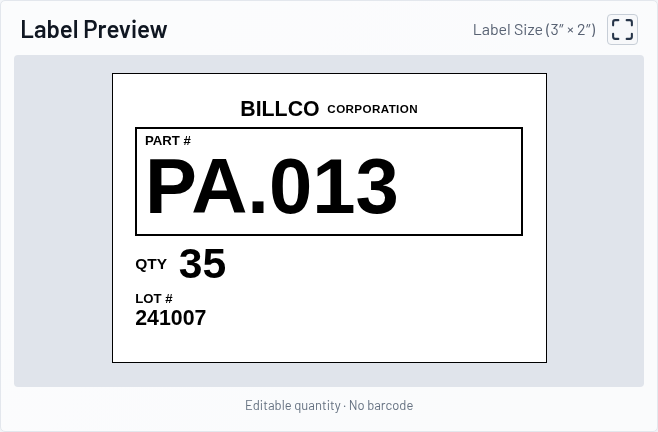
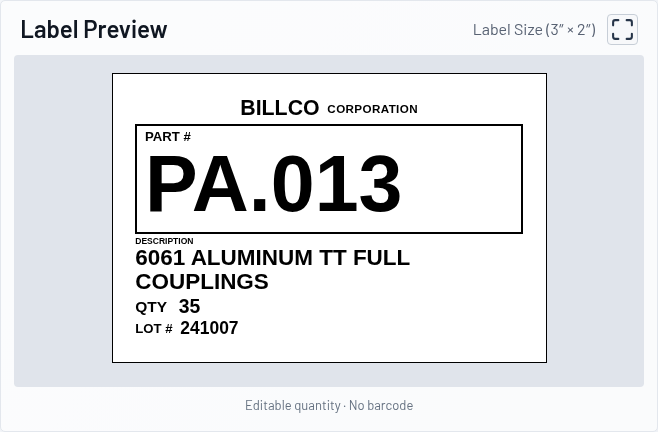
feat: add two-line descriptions to 3x2 labels

Changed region(s): [[0.1824, 0.3611, 0.7903, 0.7824], [0.2128, 0.2106, 0.7903, 0.331]]

diff --git a/tests/label-rendering.spec.ts b/tests/label-rendering.spec.ts
@@ -39,11 +39,10 @@ async function verifyThermalLabel(label: Locator, height: number, part: string, 
     expect(text.transform).toBe('none')
   }
   expect(style.part).toBeGreaterThan(await label.locator('.label-quantity strong').evaluate((node) => parseFloat(getComputedStyle(node).fontSize)))
+  await expect(label.locator('.label-description strong')).toHaveText('HEX HEAD PIPE PLUG 1/2')
   if (height === 2) {
-    await expect(label.locator('.label-description')).toHaveCount(0)
     await expect(label.locator('.label-po')).toHaveCount(0)
   } else {
-    await expect(label.locator('.label-description strong')).toHaveText('HEX HEAD PIPE PLUG 1/2')
     await expect(label.locator('.label-po strong')).toHaveText('PO-123')
   }
   if (barcode) {
@@ -85,7 +84,7 @@ for (const mode of [
   })
 }
 
-test('fits complete long imported identifiers and descriptions at desktop and mobile sizes', async ({ page, request }) => {
+test('preserves long Part Numbers and keeps label text within desktop and mobile bounds', async ({ page, request }) => {
   const part = `${randomUUID()}-ABCDEFGHIJKLMNOPQRSTUVWXYZ0`
   const description = 'LONG IMPORTED DESCRIPTION WITH DIMENSIONS AND MATERIAL '.repeat(10).slice(0, 512)
   await importProduct(request, part, description)
@@ -111,3 +110,71 @@ test('fits complete long imported identifiers and descriptions at desktop and mo
     }
   }
 })
+
+for (const mode of [
+  { name: 'Package Fixed Qty', barcode: '000123456789' },
+  { name: 'BCC', barcode: null },
+]) {
+  test(`${mode.name} wraps descriptions into two lines and truncates overflow without shrinking Part Number`, async ({ page, request }) => {
+    const part = `PA-${randomUUID().slice(0, 4)}`
+    const longPart = `PB-${randomUUID().slice(0, 4)}`
+    const description = '6061 ALUMINUM TT FULL COUPLINGS'
+    const longDescription = 'BLK EXTRA HEAVY MALLEABLE FITTINGS WITH ADDITIONAL SPECIFICATIONS '.repeat(6).trim()
+    await importProduct(request, part, description)
+    await importProduct(request, longPart, longDescription)
+    await page.goto('/')
+    await expect(page.getByLabel('Description', { exact: true })).toHaveValue('3/8 Brass Coupling')
+    await page.getByRole('radio', { name: mode.name, exact: true }).check()
+    await page.getByRole('textbox', { name: 'Part Number', exact: true }).fill(part)
+    await expect(page.getByLabel('Description', { exact: true })).toHaveValue(description)
+    if (!mode.barcode) await page.getByRole('spinbutton', { name: 'Quantity', exact: true }).fill('35')
+    const label = page.locator('.product-label').first()
+    const partSize = () => label.locator('.label-part strong').evaluate((node) => parseFloat(getComputedStyle(node).fontSize))
+    // Compare against the existing compact grid, with the description area removed.
+    const priorSize = await label.evaluate((node) => {
+      node.classList.remove('has-description')
+      const description = node.querySelector<HTMLElement>('.label-description')!
+      description.style.display = 'none'
+      return new Promise<number>((resolve) => requestAnimationFrame(() => requestAnimationFrame(() => {
+        const size = parseFloat(getComputedStyle(node.querySelector('.label-part strong')!).fontSize)
+        node.classList.add('has-description')
+        description.style.display = ''
+        resolve(size)
+      })))
+    })
+    await expect.poll(partSize).toBeGreaterThanOrEqual(priorSize)
+    for (const width of [1536, 390]) {
+      await page.setViewportSize({ width, height: 1024 })
+      const value = label.locator('.label-description strong')
+      await expect(value).toHaveText(description)
+      await expect.poll(() => value.evaluate((node) => {
+        const range = document.createRange()
+        range.selectNodeContents(node)
+        return new Set([...range.getClientRects()].map((rect) => Math.round(rect.top))).size
+      })).toBe(2)
+      if (mode.barcode) await expect(label.locator('.barcode-value')).toHaveText(mode.barcode)
+      else await expect(label.locator('.barcode-group')).toHaveCount(0)
+    }
+    await page.getByRole('textbox', { name: 'Part Number', exact: true }).fill(longPart)
+    await expect(page.getByLabel('Description', { exact: true })).toHaveValue(longDescription)
+    const value = label.locator('.label-description strong')
+    await expect(value).toHaveText(/\.\.\.$/)
+    const displayed = (await value.textContent())!
+    expect(longDescription.startsWith(displayed.slice(0, -3).trimEnd())).toBe(true)
+    await expect(value).toHaveAttribute('title', longDescription)
+    await expect.poll(() => value.evaluate((node) => {
+      const range = document.createRange()
+      range.selectNodeContents(node)
+      return new Set([...range.getClientRects()].map((rect) => Math.round(rect.top))).size
+    })).toBe(2)
+    expect(await partSize()).toBeGreaterThan(await value.evaluate((node) => parseFloat(getComputedStyle(node).fontSize)))
+    const barcodeRects = await label.locator('.barcode rect').count()
+    if (mode.barcode) expect(barcodeRects).toBeGreaterThan(10)
+    else expect(barcodeRects).toBe(0)
+    await page.getByRole('button', { name: 'Expand label preview' }).click()
+    const expanded = page.getByRole('dialog').locator('.product-label')
+    await expect(expanded.locator('.label-description strong')).toHaveText(/\.\.\.$/)
+    if (mode.barcode) await expect(expanded.locator('.barcode-value')).toHaveText(mode.barcode)
+    else await expect(expanded.locator('.barcode-group')).toHaveCount(0)
+  })
+}

diff --git a/src/components/ProductLabel.tsx b/src/components/ProductLabel.tsx
@@ -51,16 +51,52 @@ function LabelDetail({ name, value }: { name: 'PO' | 'LOT'; value: string }) {
   </div>
 }
 
+function CompactDescription({ description }: { description: string }) {
+  const ref = useRef<HTMLElement>(null)
+  const text = description.replace(/\s+/g, ' ').trim()
+
+  useLayoutEffect(() => {
+    const element = ref.current!
+    let active = true
+    const fit = () => {
+      if (!active) return
+      const fits = () => element.scrollHeight <= element.clientHeight && element.scrollWidth <= element.clientWidth
+      element.textContent = text
+      if (fits()) return
+      const characters = Array.from(text)
+      const shortened = (length: number) => `${characters.slice(0, length).join('').trimEnd()}...`
+      let low = 0
+      let high = characters.length
+      while (low < high) {
+        const middle = Math.ceil((low + high) / 2)
+        element.textContent = shortened(middle)
+        if (fits()) low = middle
+        else high = middle - 1
+      }
+      element.textContent = shortened(low)
+    }
+    fit()
+    const observer = new ResizeObserver(fit)
+    observer.observe(element)
+    void document.fonts.ready.then(fit)
+    return () => { active = false; observer.disconnect() }
+  }, [text])
+
+  return <div className="label-description"><span>DESCRIPTION</span><strong ref={ref} title={description}>{text}</strong></div>
+}
+
 export function ProductLabel({ data, rules }: { data: LabelData; rules: LabelRules }) {
   const compact = rules.height === 2
+  const hasDescription = compact && Boolean(data.product.description.trim())
   return <div
-    className={`product-label${compact ? ' compact-label' : ''}${rules.showBarcode ? '' : ' no-barcode'}`}
+    className={`product-label${compact ? ' compact-label' : ''}${hasDescription ? ' has-description' : ''}${rules.showBarcode ? '' : ' no-barcode'}`}
     style={{ aspectRatio: `${rules.width} / ${rules.height}` }}
     aria-label="Product label preview"
   >
     <div className="label-brand" aria-label="Billco Corporation"><strong>BILLCO</strong><span>CORPORATION</span></div>
     <div className="label-part"><span>PART #</span><FittedText dominant>{data.product.partNumber}</FittedText></div>
     {!compact && <div className="label-description"><span>DESCRIPTION</span><FittedText>{data.product.description}</FittedText></div>}
+    {hasDescription && <CompactDescription description={data.product.description} />}
     <div className="label-quantity"><span>QTY</span><strong>{data.quantity || '—'}</strong></div>
     <div className="label-details">
       {!compact && <LabelDetail name="PO" value={data.poNumber} />}

diff --git a/src/styles.css b/src/styles.css
@@ -139,6 +139,15 @@ input[type="radio"], input[type="checkbox"] { width: 22px; height: 22px; accent-
 .compact-label .label-brand span { font-size: min(3cqw, calc(var(--part-font-size) * .25)); }
 .compact-label .label-quantity strong { font-size: min(11cqw, calc(var(--part-font-size) * .65)); }
 .compact-label.no-barcode { grid-template-rows: .3fr 1.25fr .55fr .55fr; }
+.compact-label.has-description { grid-template-rows: .27fr 1fr .68fr .25fr .2fr .35fr; gap: .9%; }
+.compact-label.has-description.no-barcode { grid-template-rows: .28fr 1.25fr .65fr .24fr .23fr; }
+.compact-label.has-description .label-description > span { font-size: min(2.2cqw, calc(var(--part-font-size) * .18)); }
+.compact-label.has-description .label-description strong { flex: none; font-size: min(5.8cqw, calc(var(--part-font-size) * .6)); line-height: 1.06; height: calc(2lh + 1px); max-height: calc(2lh + 1px); overflow: hidden; }
+.compact-label.has-description .label-quantity strong { font-size: min(5cqw, calc(var(--part-font-size) * .4)); }
+.compact-label.has-description .label-detail { flex-direction: row; align-items: center; gap: 2cqw; }
+.compact-label.has-description .label-detail strong { align-self: stretch; font-size: min(4.5cqw, calc(var(--part-font-size) * .3)); }
+.compact-label.has-description .barcode-group { gap: .4cqw; }
+.compact-label.has-description .barcode-value { font-size: min(2.6cqw, calc(var(--part-font-size) * .2)); }
 .empty-preview { width: 100%; max-width: 435px; aspect-ratio: 3 / 5; color: #5c6879; text-align: center; padding: 25px; }
 .empty-preview h3 { font-size: 25px; font-weight: 600; }
 .empty-preview p { font-size: 18px; }

diff --git a/tests/server/label-template.test.ts b/tests/server/label-template.test.ts
@@ -1,0 +1,22 @@
+import assert from 'node:assert/strict'
+import { test } from 'node:test'
+import { createElement } from 'react'
+import { renderToStaticMarkup } from 'react-dom/server'
+import { ProductLabel } from '../../src/components/ProductLabel.js'
+import { getLabelRules, type LabelData } from '../../src/data/products.js'
+
+test('compact templates omit blank descriptions while retaining the part, quantity, lot, and barcode rules', () => {
+  const data: LabelData = {
+    product: { partNumber: 'PA.013', description: ' \t\n ', bulkFixedQuantity: 500, packageFixedQuantity: 100, productBarcode: 'PRODUCT-001', bulkBarcode: 'BULK-001', status: 'active' },
+    quantity: '100', lotNumber: '241007', poNumber: '456789',
+  }
+  for (const type of ['package-fixed', 'bcc'] as const) {
+    const html = renderToStaticMarkup(createElement(ProductLabel, { data, rules: getLabelRules(type) }))
+    assert.doesNotMatch(html, /label-description|has-description|DESCRIPTION/)
+    assert.match(html, /PA\.013/)
+    assert.match(html, /241007/)
+    assert.match(html, /QTY/)
+    if (type === 'package-fixed') assert.match(html, /Code 128 barcode for PRODUCT-001/)
+    else assert.doesNotMatch(html, /barcode-group|PRODUCT-001|BULK-001/)
+  }
+})

diff --git a/docs/label-preview.md b/docs/label-preview.md
@@ -9,13 +9,14 @@ labels are outside scope.
 | --- | --- | --- | --- | --- |
 | Bulk Fixed | 3 × 5 inches | Bulk Fixed Quantity, locked | Bulk Barcode | Description, PO, lot |
 | Bulk Variable | 3 × 5 inches | Operator entry | None | Description, PO, lot |
-| Package Fixed | 3 × 2 inches | Package Fixed Quantity, locked | Product Barcode | Lot |
-| BCC | 3 × 2 inches | Operator entry | None | Lot |
+| Package Fixed | 3 × 2 inches | Package Fixed Quantity, locked | Product Barcode | Description, lot |
+| BCC | 3 × 2 inches | Operator entry | None | Description, lot |
 
 Every label shows flat BILLCO CORPORATION branding and a boxed Part Number.
 Part Number is the largest text; description is the next priority on bulk
 labels, followed by quantity, PO, lot, and barcode. Compact labels emphasize
-Part Number, then quantity, lot, and barcode. Upright Arial/Helvetica typography,
+Part Number, then description, quantity, lot, and barcode. The compact Part
+Number area and typography retain their existing size. Upright Arial/Helvetica typography,
 square edges, and high contrast resemble industrial thermal output.
 
 Product Barcode and Bulk Barcode are separate imported values. Fixed previews
@@ -43,10 +44,13 @@ consistent across label types; height follows the 3:5 or 3:2 aspect ratio. The
 size caption indicates intended stock dimensions. Screen scaling does not
 calibrate physical inches or certify printer output or barcode scanability.
 
-Complete imported identifiers and descriptions are preserved. Text fitting
-responds to content, available space, and viewport changes without ellipses.
-Very long values use smaller text to fit, and the remaining fields scale to
-keep Part Number dominant; the application's existing data length limits apply.
+Complete imported identifiers are preserved. Part Number fitting responds to
+content, available space, and viewport changes. The existing 3x5 description
+fitting remains unchanged. For all 3x2 formats, nonblank descriptions wrap into
+at most two lines and truncate overflow with `...`; the full description is
+available on hover. Blank descriptions omit the heading and its allocated row.
+Other compact fields use the remaining space while preserving Part Number's
+size and prominence. Existing data length limits apply.
 
 ## Screenshots
 

diff --git a/docs/docs/label-specifications.md b/docs/docs/label-specifications.md
@@ -8,8 +8,10 @@ Common fields:
 - Quantity
 - Barcode (fixed-quantity labels only)
 
-Bulk Fixed and Bulk Variable also show Description and PO Number. The compact
-Package Fixed and BCC layouts omit both fields.
+All formats show Description when nonblank. Bulk Fixed and Bulk Variable also
+show PO Number; compact formats omit PO Number. Package Fixed, BCC, and future
+3x2 formats wrap descriptions to two lines, truncating overflow with `...`.
+This does not change 3x5 description rendering.
 
 Bulk Fixed encodes the imported Bulk Barcode and uses Bulk Fixed Quantity.
 Package Fixed encodes the imported Product Barcode and uses Package Fixed Quantity.
@@ -50,13 +52,15 @@ integration, and PDF generation are not implemented.
 
 Part Number is boxed and is the largest text on every label. Bulk labels rank
 Part Number, Description, Quantity, PO Number, Lot Number, then Barcode.
-Compact labels rank Part Number, Quantity, Lot Number, then Barcode.
+Compact labels rank Part Number, Description, Quantity, Lot Number, then Barcode.
+Adding Description must not shrink the existing Part Number text or boxed area.
 Quantity must remain smaller than Part Number.
 
 Use only black ink on white stock, upright sans-serif text, and flat BILLCO
 CORPORATION branding. No italics, slanted text, decorative fonts, color graphics,
 addresses, websites, rounded label corners, or decorative shadows.
 
-Preserve complete imported text; fit long values within their allocated areas
-while keeping Part Number dominant. Normal and expanded previews share the
+Preserve complete Part Numbers and fit them within their allocated areas.
+Compact descriptions show at most two lines; the full description is available
+on hover. Normal and expanded previews share the
 same renderer and retain the 3x5 or 3x2 aspect ratio at all viewport widths.

diff --git a/README.md b/README.md
@@ -34,7 +34,9 @@ Search and Enter still perform an immediate lookup. A pending lookup clears the
 previous product's preview, and cancelled or stale responses cannot restore it.
 The label itself uses flat black-and-white thermal styling with a boxed Part
 Number as its largest text. Bulk labels show description, quantity, PO, and lot;
-compact Package Fixed and BCC labels show Part Number, quantity, and lot.
+compact Package Fixed and BCC labels show Part Number, Description, quantity,
+and lot. Compact descriptions wrap to two lines, with `...` for overflow;
+blank descriptions are omitted without shrinking Part Number.
 See [`docs/label-preview.md`](docs/label-preview.md) for layouts and screenshots.
 Selecting Bulk Variable or BCC clears the quantity, and product lookups in
 either type require a new operator-entered quantity.

diff --git a/docs/requirements.md b/docs/requirements.md
@@ -90,8 +90,11 @@ Operators do not manually select label dimensions.
 - Lot Number
 - Quantity
 
-Bulk Fixed and Bulk Variable also display Description and PO Number.
-Package Fixed and BCC use the compact layout and omit Description and PO Number.
+All labels display Description when nonblank. Bulk Fixed and Bulk Variable also
+display PO Number. Package Fixed and BCC omit PO Number; their descriptions wrap
+to at most two lines and truncate overflow with `...`. Part Number retains its
+existing size and remains dominant, followed by Description, Quantity, Lot Number,
+and Barcode when applicable.
 
 Fixed-quantity labels shall also display:
 
